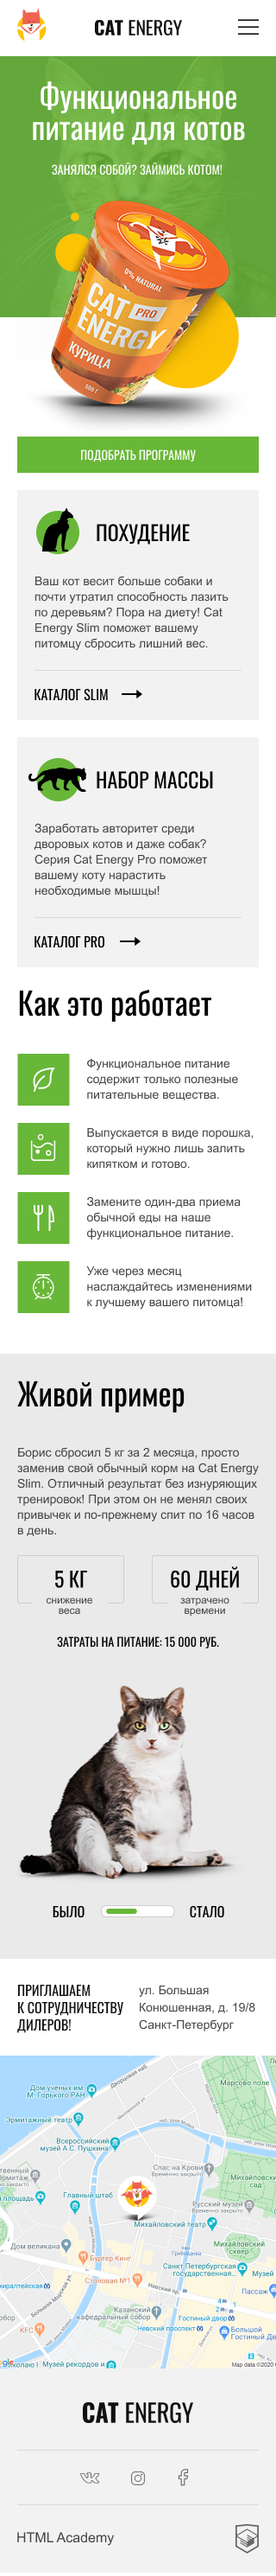
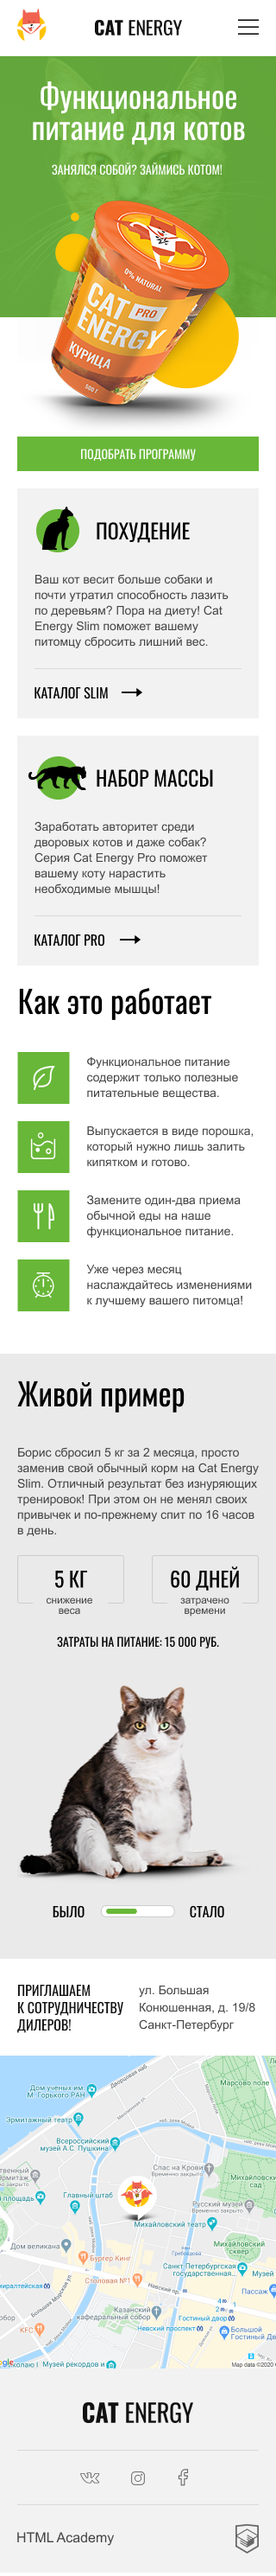
сохраняет изменения Index.html базовая типографика

Changed region(s): [[0.0938, 0.1872, 0.7812, 0.5305], [0.3125, 0.3745, 0.875, 0.5305]]

diff --git a/source/index.html b/source/index.html
@@ -137,13 +137,15 @@
   <footer class="page-footer">
     <section class="contacts">
       <h2 class="visually-hidden">Наш адрес</h2>
-      <div class="contacts_address-wrapper">
-        <p class="contacts__text">Приглашаем к сотрудничеству дилеров!</p>
-        <address class="contacts__shop-address">
-          ул. Большая<br>
-          Конюшенная, д. 19/8<br>
-          Санкт-Петербург
-        </address>
+      <div class="container">
+        <div class="contacts_address-wrapper ">
+          <p class="contacts__text">Приглашаем к сотрудничеству дилеров!</p>
+          <address class="contacts__shop-address">
+            ул. Большая<br>
+            Конюшенная, д. 19/8<br>
+            Санкт-Петербург
+          </address>
+        </div>
       </div>
       <img src="img/site/map-shop-location.jpg" width="320" height="362" alt="Наш магазин на карте мира.">
       <iframe
@@ -151,56 +153,57 @@
         width="243" height="232" allowfullscreen="" loading="lazy"></iframe>
     </section>
     <div class="page-footer__links">
-      <a class="page-footer__logo logo">
-        <img class="logo__shop-name logo__shop-name--large" src="img/logo-shop-name.svg" width="101" height="18"
-          alt="Текстовый логотип магазина Cat ENERGY.">
-      </a>
-      <div class="socials">
-        <ul class="socials__list">
-          <li class="socials__item">
-            <a class="socials__link" href="#" target="_blank">
-              <svg class="social-icon social-icon--vkontakte" width="23" height="19" viewBox="0 0 23 19" fill="none"
-                xmlns="http://www.w3.org/2000/svg">
-                <path
-                  d="M0.0700912 4.74127C0.0700912 4.00284 0.493211 3.60466 1.33945 3.54674L4.60039 3.56846C4.81925 3.56846 4.96515 3.67706 5.03811 3.89424C5.37368 4.98018 5.74938 5.9177 6.16521 6.70681C6.58103 7.49592 7.12453 8.40449 7.79568 9.4325C7.85404 9.56281 7.94888 9.62797 8.08019 9.62797C8.18233 9.62797 8.26257 9.57729 8.32093 9.47594L8.38659 9.23703L8.40848 5.47971C8.40848 5.21908 8.34647 5.04533 8.22245 4.95846C8.09843 4.87158 7.86863 4.80643 7.53305 4.76299C7.27043 4.71955 7.13912 4.56028 7.13912 4.28518C7.13912 4.22726 7.14641 4.18383 7.161 4.15487C7.4674 3.21373 8.34282 2.74315 9.78726 2.74315L11.0129 2.72144C11.5673 2.72144 12.0269 2.85899 12.3916 3.13409C12.7564 3.40919 12.9388 3.84357 12.9388 4.43721V9.36735C13.0409 9.43974 13.1357 9.47594 13.2233 9.47594C13.4421 9.47594 13.6318 9.34563 13.7923 9.085C15.3973 6.85522 16.2654 5.36387 16.3967 4.61096C16.3967 4.59648 16.4113 4.56028 16.4405 4.50237C16.5426 4.28518 16.7104 4.09695 16.9438 3.93768C17.1773 3.77841 17.3815 3.66982 17.5566 3.6119C17.615 3.58294 17.6806 3.56846 17.7536 3.56846H21.1459L21.3647 3.59018C21.6565 3.59018 21.8827 3.72773 22.0432 4.00284C22.1015 4.08971 22.1416 4.18383 22.1635 4.28518C22.1854 4.38653 22.2 4.48789 22.2073 4.58924C22.2146 4.69059 22.2182 4.74851 22.2182 4.76299V4.91502C22.1161 5.50866 21.8571 6.14213 21.4413 6.8154C21.0255 7.48868 20.4966 8.21626 19.8546 8.99813C19.2126 9.78 18.8114 10.294 18.6509 10.5402C18.5196 10.7139 18.4539 10.8732 18.4539 11.018C18.4539 11.1338 18.5123 11.2641 18.629 11.4089L21.8243 15.4051C21.9994 15.6368 22.0869 15.8902 22.0869 16.1653C22.0869 16.4983 21.9556 16.7734 21.693 16.9906C21.4304 17.2078 21.1167 17.3309 20.7519 17.3598L20.3799 17.3815H17.0533C17.0387 17.3815 17.0095 17.3852 16.9657 17.3924C16.9219 17.3996 16.8928 17.4033 16.8782 17.4033C16.5572 17.4033 16.2581 17.2657 15.9809 16.9906C15.8787 16.8748 15.193 16.0205 13.9236 14.4278C13.8507 14.3264 13.7485 14.2323 13.6172 14.1455C13.5589 14.3771 13.4823 14.7101 13.3874 15.1445C13.2926 15.5789 13.2233 15.8902 13.1795 16.0784L13.1139 16.4476C12.968 16.9544 12.6616 17.2585 12.1947 17.3598L11.8883 17.3815H9.74349C8.53249 17.3815 7.32514 16.8313 6.12144 15.7309C4.91773 14.6305 3.8344 13.2079 2.87144 11.4632C1.90848 9.71847 1.01117 7.68777 0.179519 5.37111C0.106567 5.18288 0.0700912 4.97294 0.0700912 4.74127ZM13.2233 10.3664C12.9169 10.3664 12.6397 10.2832 12.3916 10.1166C12.1436 9.95013 12.0196 9.72208 12.0196 9.4325V4.43721C12.0196 4.14763 11.9466 3.9413 11.8007 3.81823C11.6548 3.69516 11.3995 3.63362 11.0347 3.63362L9.78726 3.67706C9.15988 3.67706 8.68569 3.78565 8.36471 4.00284C9.00668 4.3069 9.32767 4.79919 9.32767 5.47971V9.30219C9.29849 9.66417 9.15258 9.96461 8.88996 10.2035C8.62733 10.4424 8.33552 10.5619 8.01454 10.5619C7.57683 10.5619 7.24125 10.3519 7.0078 9.93203C5.86975 8.2235 5.02351 6.60184 4.46908 5.06705L4.27211 4.50237L1.36134 4.48065C1.17166 4.48065 1.06588 4.49151 1.044 4.51323C1.02211 4.53494 1.01117 4.59648 1.01117 4.69783C1.01117 4.82815 1.02576 4.9657 1.05494 5.11049L1.51454 6.32673C2.74013 9.4687 4.07149 11.9446 5.50864 13.7545C6.94579 15.5644 8.35741 16.4693 9.74349 16.4693H11.932C12.0196 16.4693 12.0852 16.444 12.129 16.3933C12.1728 16.3427 12.2093 16.2449 12.2384 16.1001L12.2822 15.8829L12.698 13.9717C12.8148 13.7111 12.9169 13.5373 13.0044 13.4505C13.1649 13.2912 13.3546 13.2116 13.5735 13.2116C13.9236 13.2116 14.2811 13.4215 14.6459 13.8414L16.5061 16.187C16.6228 16.3752 16.7469 16.4693 16.8782 16.4693H20.4893C20.927 16.4693 21.1459 16.3608 21.1459 16.1436C21.1459 16.0712 21.124 15.9988 21.0802 15.9264L17.9068 11.9953C17.6588 11.6912 17.5347 11.3655 17.5347 11.018C17.5347 10.6705 17.6515 10.3374 17.8849 10.0189C18.0746 9.72932 18.443 9.24789 18.9901 8.57462C19.5373 7.90134 20.0151 7.2715 20.4236 6.68509C20.8322 6.09869 21.1021 5.56658 21.2334 5.08877L21.299 4.80643C21.2845 4.77747 21.2772 4.73041 21.2772 4.66526C21.2772 4.6001 21.2699 4.5458 21.2553 4.50237H17.8193C17.6004 4.58924 17.4253 4.71955 17.294 4.8933L17.1627 5.30596C16.7979 6.30502 15.8423 7.84704 14.2957 9.93203C13.9893 10.2216 13.6318 10.3664 13.2233 10.3664Z"
-                  fill="#666666" />
-              </svg>
-              <span class="visually-hidden">Мы в Вконтакте.</span>
-            </a>
-          </li>
-          <li class="socials__item">
-            <a class="socials__link" href="#" target="_blank">
-              <svg class="social-icon social-icon--instagram" width="16" height="16" viewBox="0 0 16 16" fill="none"
-                xmlns="http://www.w3.org/2000/svg">
-                <path
-                  d="M7.98438 0.0625C9.31771 0.0625 10.4062 0.078125 11.25 0.109375C11.9688 0.140625 12.6094 0.265625 13.1719 0.484375C13.7135 0.692708 14.1823 0.994792 14.5781 1.39062C14.974 1.78646 15.276 2.25521 15.4844 2.79687C15.7031 3.35937 15.8281 4 15.8594 4.71875C15.8906 5.5625 15.9062 6.65104 15.9062 7.98437C15.9062 9.31771 15.8906 10.4062 15.8594 11.25C15.8281 11.9687 15.7031 12.6094 15.4844 13.1719C15.276 13.7135 14.974 14.1823 14.5781 14.5781C14.1823 14.974 13.7135 15.276 13.1719 15.4844C12.6094 15.7031 11.9688 15.8281 11.25 15.8594C10.4062 15.8906 9.31771 15.9062 7.98438 15.9062C6.65104 15.9062 5.5625 15.8906 4.71875 15.8594C4 15.8281 3.35938 15.7031 2.79688 15.4844C2.25521 15.276 1.78646 14.974 1.39062 14.5781C0.994792 14.1823 0.692708 13.7135 0.484375 13.1719C0.265625 12.6094 0.140625 11.9687 0.109375 11.25C0.078125 10.4062 0.0625 9.31771 0.0625 7.98437C0.0625 6.65104 0.078125 5.5625 0.109375 4.71875C0.140625 4 0.265625 3.35937 0.484375 2.79687C0.692708 2.25521 0.994792 1.78646 1.39062 1.39062C1.78646 0.994792 2.25521 0.692708 2.79688 0.484375C3.35938 0.265625 4 0.140625 4.71875 0.109375C5.5625 0.078125 6.65104 0.0625 7.98438 0.0625ZM7.98438 1.09375C6.59896 1.09375 5.46875 1.10937 4.59375 1.14062C4.03125 1.16146 3.51042 1.26042 3.03125 1.4375C2.28125 1.75 1.75 2.28125 1.4375 3.03125C1.26042 3.51042 1.16146 4.03125 1.14062 4.59375C1.10938 5.46875 1.09375 6.59896 1.09375 7.98437C1.09375 9.36979 1.10938 10.5 1.14062 11.375C1.16146 11.9375 1.26042 12.4583 1.4375 12.9375C1.75 13.6875 2.28125 14.2187 3.03125 14.5312C3.51042 14.7083 4.03125 14.8073 4.59375 14.8281C5.46875 14.8594 6.59896 14.875 7.98438 14.875C9.36979 14.875 10.5 14.8594 11.375 14.8281C11.9375 14.8073 12.4583 14.7083 12.9375 14.5312C13.6875 14.2187 14.2188 13.6875 14.5312 12.9375C14.7083 12.4583 14.8073 11.9375 14.8281 11.375C14.8594 10.5 14.875 9.36979 14.875 7.98437C14.875 6.59896 14.8594 5.46875 14.8281 4.59375C14.8073 4.03125 14.7083 3.51042 14.5312 3.03125C14.2188 2.28125 13.6875 1.75 12.9375 1.4375C12.4583 1.26042 11.9375 1.16146 11.375 1.14062C10.5 1.10937 9.36979 1.09375 7.98438 1.09375ZM7.98438 11.1562C8.85938 11.1562 9.60677 10.8464 10.2266 10.2266C10.8464 9.60677 11.1562 8.85937 11.1562 7.98437C11.1562 7.10937 10.8464 6.36198 10.2266 5.74219C9.60677 5.1224 8.85938 4.8125 7.98438 4.8125C7.10938 4.8125 6.36198 5.1224 5.74219 5.74219C5.1224 6.36198 4.8125 7.10937 4.8125 7.98437C4.8125 8.85937 5.1224 9.60677 5.74219 10.2266C6.36198 10.8464 7.10938 11.1562 7.98438 11.1562ZM7.98438 3.92187C9.10938 3.92187 10.0677 4.31771 10.8594 5.10937C11.651 5.90104 12.0469 6.85937 12.0469 7.98437C12.0469 9.10937 11.651 10.0677 10.8594 10.8594C10.0677 11.651 9.10938 12.0469 7.98438 12.0469C6.85938 12.0469 5.90104 11.651 5.10938 10.8594C4.31771 10.0677 3.92188 9.10937 3.92188 7.98437C3.92188 6.85937 4.31771 5.90104 5.10938 5.10937C5.90104 4.31771 6.85938 3.92187 7.98438 3.92187ZM13.1719 3.76562C13.1719 4.02604 13.0781 4.2474 12.8906 4.42969C12.7031 4.61198 12.474 4.70312 12.2031 4.70312C11.9427 4.70312 11.7214 4.61198 11.5391 4.42969C11.3568 4.2474 11.2656 4.02604 11.2656 3.76562C11.2656 3.49479 11.3568 3.26562 11.5391 3.07812C11.7214 2.89062 11.9427 2.79687 12.2031 2.79687C12.4635 2.79687 12.6901 2.89323 12.8828 3.08594C13.0755 3.27865 13.1719 3.50521 13.1719 3.76562Z"
-                  fill="#666666" />
-              </svg>
-
-              <span class="visually-hidden">Мы в Инстаграмм.</span>
-            </a>
-          </li>
-          <li class="socials__item">
-            <a class="socials__link" href="#" target="_blank">
-              <svg class="social-icon social-icon--facebook" width="22" height="22" viewBox="0 0 22 22" fill="none"
-                xmlns="http://www.w3.org/2000/svg">
-                <path
-                  d="M16.5 1.83325H13.75C12.5344 1.83325 11.3686 2.30674 10.5091 3.14957C9.64956 3.99239 9.16667 5.1355 9.16667 6.32743V9.02394H6.41667V12.6193H9.16667V19.81H12.8333V12.6193H15.5833L16.5 9.02394H12.8333V6.32743C12.8333 6.08905 12.9299 5.86042 13.1018 5.69186C13.2737 5.52329 13.5069 5.4286 13.75 5.4286H16.5V1.83325Z"
-                  stroke="#666666" stroke-width="1.1" stroke-linecap="round" stroke-linejoin="round" />
-              </svg>
-              <span class="visually-hidden">Мы в Фейсбук.</span>
-            </a>
-          </li>
-        </ul>
+      <div class="container">
+        <a class="page-footer__logo logo">
+          <img class="logo__shop-name logo__shop-name--large" src="img/logo-shop-name.svg" width="128" height="24"
+            alt="Текстовый логотип магазина Cat ENERGY.">
+        </a>
+        <div class="socials">
+          <ul class="socials__list">
+            <li class="socials__item">
+              <a class="socials__link" href="#" target="_blank">
+                <svg class="social-icon social-icon--vkontakte" width="23" height="19" viewBox="0 0 23 19" fill="none"
+                  xmlns="http://www.w3.org/2000/svg">
+                  <path
+                    d="M0.0700912 4.74127C0.0700912 4.00284 0.493211 3.60466 1.33945 3.54674L4.60039 3.56846C4.81925 3.56846 4.96515 3.67706 5.03811 3.89424C5.37368 4.98018 5.74938 5.9177 6.16521 6.70681C6.58103 7.49592 7.12453 8.40449 7.79568 9.4325C7.85404 9.56281 7.94888 9.62797 8.08019 9.62797C8.18233 9.62797 8.26257 9.57729 8.32093 9.47594L8.38659 9.23703L8.40848 5.47971C8.40848 5.21908 8.34647 5.04533 8.22245 4.95846C8.09843 4.87158 7.86863 4.80643 7.53305 4.76299C7.27043 4.71955 7.13912 4.56028 7.13912 4.28518C7.13912 4.22726 7.14641 4.18383 7.161 4.15487C7.4674 3.21373 8.34282 2.74315 9.78726 2.74315L11.0129 2.72144C11.5673 2.72144 12.0269 2.85899 12.3916 3.13409C12.7564 3.40919 12.9388 3.84357 12.9388 4.43721V9.36735C13.0409 9.43974 13.1357 9.47594 13.2233 9.47594C13.4421 9.47594 13.6318 9.34563 13.7923 9.085C15.3973 6.85522 16.2654 5.36387 16.3967 4.61096C16.3967 4.59648 16.4113 4.56028 16.4405 4.50237C16.5426 4.28518 16.7104 4.09695 16.9438 3.93768C17.1773 3.77841 17.3815 3.66982 17.5566 3.6119C17.615 3.58294 17.6806 3.56846 17.7536 3.56846H21.1459L21.3647 3.59018C21.6565 3.59018 21.8827 3.72773 22.0432 4.00284C22.1015 4.08971 22.1416 4.18383 22.1635 4.28518C22.1854 4.38653 22.2 4.48789 22.2073 4.58924C22.2146 4.69059 22.2182 4.74851 22.2182 4.76299V4.91502C22.1161 5.50866 21.8571 6.14213 21.4413 6.8154C21.0255 7.48868 20.4966 8.21626 19.8546 8.99813C19.2126 9.78 18.8114 10.294 18.6509 10.5402C18.5196 10.7139 18.4539 10.8732 18.4539 11.018C18.4539 11.1338 18.5123 11.2641 18.629 11.4089L21.8243 15.4051C21.9994 15.6368 22.0869 15.8902 22.0869 16.1653C22.0869 16.4983 21.9556 16.7734 21.693 16.9906C21.4304 17.2078 21.1167 17.3309 20.7519 17.3598L20.3799 17.3815H17.0533C17.0387 17.3815 17.0095 17.3852 16.9657 17.3924C16.9219 17.3996 16.8928 17.4033 16.8782 17.4033C16.5572 17.4033 16.2581 17.2657 15.9809 16.9906C15.8787 16.8748 15.193 16.0205 13.9236 14.4278C13.8507 14.3264 13.7485 14.2323 13.6172 14.1455C13.5589 14.3771 13.4823 14.7101 13.3874 15.1445C13.2926 15.5789 13.2233 15.8902 13.1795 16.0784L13.1139 16.4476C12.968 16.9544 12.6616 17.2585 12.1947 17.3598L11.8883 17.3815H9.74349C8.53249 17.3815 7.32514 16.8313 6.12144 15.7309C4.91773 14.6305 3.8344 13.2079 2.87144 11.4632C1.90848 9.71847 1.01117 7.68777 0.179519 5.37111C0.106567 5.18288 0.0700912 4.97294 0.0700912 4.74127ZM13.2233 10.3664C12.9169 10.3664 12.6397 10.2832 12.3916 10.1166C12.1436 9.95013 12.0196 9.72208 12.0196 9.4325V4.43721C12.0196 4.14763 11.9466 3.9413 11.8007 3.81823C11.6548 3.69516 11.3995 3.63362 11.0347 3.63362L9.78726 3.67706C9.15988 3.67706 8.68569 3.78565 8.36471 4.00284C9.00668 4.3069 9.32767 4.79919 9.32767 5.47971V9.30219C9.29849 9.66417 9.15258 9.96461 8.88996 10.2035C8.62733 10.4424 8.33552 10.5619 8.01454 10.5619C7.57683 10.5619 7.24125 10.3519 7.0078 9.93203C5.86975 8.2235 5.02351 6.60184 4.46908 5.06705L4.27211 4.50237L1.36134 4.48065C1.17166 4.48065 1.06588 4.49151 1.044 4.51323C1.02211 4.53494 1.01117 4.59648 1.01117 4.69783C1.01117 4.82815 1.02576 4.9657 1.05494 5.11049L1.51454 6.32673C2.74013 9.4687 4.07149 11.9446 5.50864 13.7545C6.94579 15.5644 8.35741 16.4693 9.74349 16.4693H11.932C12.0196 16.4693 12.0852 16.444 12.129 16.3933C12.1728 16.3427 12.2093 16.2449 12.2384 16.1001L12.2822 15.8829L12.698 13.9717C12.8148 13.7111 12.9169 13.5373 13.0044 13.4505C13.1649 13.2912 13.3546 13.2116 13.5735 13.2116C13.9236 13.2116 14.2811 13.4215 14.6459 13.8414L16.5061 16.187C16.6228 16.3752 16.7469 16.4693 16.8782 16.4693H20.4893C20.927 16.4693 21.1459 16.3608 21.1459 16.1436C21.1459 16.0712 21.124 15.9988 21.0802 15.9264L17.9068 11.9953C17.6588 11.6912 17.5347 11.3655 17.5347 11.018C17.5347 10.6705 17.6515 10.3374 17.8849 10.0189C18.0746 9.72932 18.443 9.24789 18.9901 8.57462C19.5373 7.90134 20.0151 7.2715 20.4236 6.68509C20.8322 6.09869 21.1021 5.56658 21.2334 5.08877L21.299 4.80643C21.2845 4.77747 21.2772 4.73041 21.2772 4.66526C21.2772 4.6001 21.2699 4.5458 21.2553 4.50237H17.8193C17.6004 4.58924 17.4253 4.71955 17.294 4.8933L17.1627 5.30596C16.7979 6.30502 15.8423 7.84704 14.2957 9.93203C13.9893 10.2216 13.6318 10.3664 13.2233 10.3664Z"
+                    fill="#666666" />
+                </svg>
+                <span class="visually-hidden">Мы в Вконтакте.</span>
+              </a>
+            </li>
+            <li class="socials__item">
+              <a class="socials__link" href="#" target="_blank">
+                <svg class="social-icon social-icon--instagram" width="16" height="16" viewBox="0 0 16 16" fill="none"
+                  xmlns="http://www.w3.org/2000/svg">
+                  <path
+                    d="M7.98438 0.0625C9.31771 0.0625 10.4062 0.078125 11.25 0.109375C11.9688 0.140625 12.6094 0.265625 13.1719 0.484375C13.7135 0.692708 14.1823 0.994792 14.5781 1.39062C14.974 1.78646 15.276 2.25521 15.4844 2.79687C15.7031 3.35937 15.8281 4 15.8594 4.71875C15.8906 5.5625 15.9062 6.65104 15.9062 7.98437C15.9062 9.31771 15.8906 10.4062 15.8594 11.25C15.8281 11.9687 15.7031 12.6094 15.4844 13.1719C15.276 13.7135 14.974 14.1823 14.5781 14.5781C14.1823 14.974 13.7135 15.276 13.1719 15.4844C12.6094 15.7031 11.9688 15.8281 11.25 15.8594C10.4062 15.8906 9.31771 15.9062 7.98438 15.9062C6.65104 15.9062 5.5625 15.8906 4.71875 15.8594C4 15.8281 3.35938 15.7031 2.79688 15.4844C2.25521 15.276 1.78646 14.974 1.39062 14.5781C0.994792 14.1823 0.692708 13.7135 0.484375 13.1719C0.265625 12.6094 0.140625 11.9687 0.109375 11.25C0.078125 10.4062 0.0625 9.31771 0.0625 7.98437C0.0625 6.65104 0.078125 5.5625 0.109375 4.71875C0.140625 4 0.265625 3.35937 0.484375 2.79687C0.692708 2.25521 0.994792 1.78646 1.39062 1.39062C1.78646 0.994792 2.25521 0.692708 2.79688 0.484375C3.35938 0.265625 4 0.140625 4.71875 0.109375C5.5625 0.078125 6.65104 0.0625 7.98438 0.0625ZM7.98438 1.09375C6.59896 1.09375 5.46875 1.10937 4.59375 1.14062C4.03125 1.16146 3.51042 1.26042 3.03125 1.4375C2.28125 1.75 1.75 2.28125 1.4375 3.03125C1.26042 3.51042 1.16146 4.03125 1.14062 4.59375C1.10938 5.46875 1.09375 6.59896 1.09375 7.98437C1.09375 9.36979 1.10938 10.5 1.14062 11.375C1.16146 11.9375 1.26042 12.4583 1.4375 12.9375C1.75 13.6875 2.28125 14.2187 3.03125 14.5312C3.51042 14.7083 4.03125 14.8073 4.59375 14.8281C5.46875 14.8594 6.59896 14.875 7.98438 14.875C9.36979 14.875 10.5 14.8594 11.375 14.8281C11.9375 14.8073 12.4583 14.7083 12.9375 14.5312C13.6875 14.2187 14.2188 13.6875 14.5312 12.9375C14.7083 12.4583 14.8073 11.9375 14.8281 11.375C14.8594 10.5 14.875 9.36979 14.875 7.98437C14.875 6.59896 14.8594 5.46875 14.8281 4.59375C14.8073 4.03125 14.7083 3.51042 14.5312 3.03125C14.2188 2.28125 13.6875 1.75 12.9375 1.4375C12.4583 1.26042 11.9375 1.16146 11.375 1.14062C10.5 1.10937 9.36979 1.09375 7.98438 1.09375ZM7.98438 11.1562C8.85938 11.1562 9.60677 10.8464 10.2266 10.2266C10.8464 9.60677 11.1562 8.85937 11.1562 7.98437C11.1562 7.10937 10.8464 6.36198 10.2266 5.74219C9.60677 5.1224 8.85938 4.8125 7.98438 4.8125C7.10938 4.8125 6.36198 5.1224 5.74219 5.74219C5.1224 6.36198 4.8125 7.10937 4.8125 7.98437C4.8125 8.85937 5.1224 9.60677 5.74219 10.2266C6.36198 10.8464 7.10938 11.1562 7.98438 11.1562ZM7.98438 3.92187C9.10938 3.92187 10.0677 4.31771 10.8594 5.10937C11.651 5.90104 12.0469 6.85937 12.0469 7.98437C12.0469 9.10937 11.651 10.0677 10.8594 10.8594C10.0677 11.651 9.10938 12.0469 7.98438 12.0469C6.85938 12.0469 5.90104 11.651 5.10938 10.8594C4.31771 10.0677 3.92188 9.10937 3.92188 7.98437C3.92188 6.85937 4.31771 5.90104 5.10938 5.10937C5.90104 4.31771 6.85938 3.92187 7.98438 3.92187ZM13.1719 3.76562C13.1719 4.02604 13.0781 4.2474 12.8906 4.42969C12.7031 4.61198 12.474 4.70312 12.2031 4.70312C11.9427 4.70312 11.7214 4.61198 11.5391 4.42969C11.3568 4.2474 11.2656 4.02604 11.2656 3.76562C11.2656 3.49479 11.3568 3.26562 11.5391 3.07812C11.7214 2.89062 11.9427 2.79687 12.2031 2.79687C12.4635 2.79687 12.6901 2.89323 12.8828 3.08594C13.0755 3.27865 13.1719 3.50521 13.1719 3.76562Z"
+                    fill="#666666" />
+                </svg>
+                <span class="visually-hidden">Мы в Инстаграмм.</span>
+              </a>
+            </li>
+            <li class="socials__item">
+              <a class="socials__link" href="#" target="_blank">
+                <svg class="social-icon social-icon--facebook" width="22" height="22" viewBox="0 0 22 22" fill="none"
+                  xmlns="http://www.w3.org/2000/svg">
+                  <path
+                    d="M16.5 1.83325H13.75C12.5344 1.83325 11.3686 2.30674 10.5091 3.14957C9.64956 3.99239 9.16667 5.1355 9.16667 6.32743V9.02394H6.41667V12.6193H9.16667V19.81H12.8333V12.6193H15.5833L16.5 9.02394H12.8333V6.32743C12.8333 6.08905 12.9299 5.86042 13.1018 5.69186C13.2737 5.52329 13.5069 5.4286 13.75 5.4286H16.5V1.83325Z"
+                    stroke="#666666" stroke-width="1.1" stroke-linecap="round" stroke-linejoin="round" />
+                </svg>
+                <span class="visually-hidden">Мы в Фейсбук.</span>
+              </a>
+            </li>
+          </ul>
+        </div>
+        <a class="page-footer__copyright copyright" href="https://htmlacademy.ru/intensive/adaptive" target="_blank">
+          <span class="copyright__name">HTML Academy</span>
+          <svg class="copyright__logo" width="27" height="34" xmlns="http://www.w3.org/2000/svg" viewBox="0 0 60 60"
+            role="img" aria-label="HTML ACADEMY">
+            <path fill="currentColor"
+              d="M30.2 5h-.2l-19.7 2.1v36.2l19.7 11.7 19.7-11.7v-36.2l-19.5-2.1zm17 36.8l-17.2 10.2-17.2-10.2v-14.8l17.1 10.2v1.8l-11.7-7v1.8l11.8 7.1v1.9l-11.8-7v1.8l11.8 7 11.9-7.1v-7.6l5.3-3.2v15.1zm-.1-17l-4.7 2.8-2.2 1.3-10.3-6.1v1.8l8.8 5.3h-.1l-.2.1-1.3.7-7.3-4.3v1.8l5.8 3.4-1.4.9-4.3-2.6v1.8l2.9 1.7-2.9 1.7-17-10.1 17-10.2 17.2 10zm.1-1.8l-17.3-10.2-17.1 10.2v-13.6l17.2-1.8 17.2 1.8v13.6z" />
+          </svg>
+        </a>
       </div>
-      <a class="page-footer__copyright copyright" href="https://htmlacademy.ru/intensive/adaptive" target="_blank">
-        <span class="copyright__name">HTML Academy</span>
-        <svg class="copyright__logo" width="27" height="34" xmlns="http://www.w3.org/2000/svg" viewBox="0 0 60 60"
-          role="img" aria-label="HTML ACADEMY">
-          <path fill="currentColor"
-            d="M30.2 5h-.2l-19.7 2.1v36.2l19.7 11.7 19.7-11.7v-36.2l-19.5-2.1zm17 36.8l-17.2 10.2-17.2-10.2v-14.8l17.1 10.2v1.8l-11.7-7v1.8l11.8 7.1v1.9l-11.8-7v1.8l11.8 7 11.9-7.1v-7.6l5.3-3.2v15.1zm-.1-17l-4.7 2.8-2.2 1.3-10.3-6.1v1.8l8.8 5.3h-.1l-.2.1-1.3.7-7.3-4.3v1.8l5.8 3.4-1.4.9-4.3-2.6v1.8l2.9 1.7-2.9 1.7-17-10.1 17-10.2 17.2 10zm.1-1.8l-17.3-10.2-17.1 10.2v-13.6l17.2-1.8 17.2 1.8v13.6z" />
-        </svg>
-      </a>
     </div>
   </footer>
 

diff --git a/source/sass/style.scss b/source/sass/style.scss
@@ -167,7 +167,7 @@
 
 .promo__item__text:last-of-type {
   margin-bottom: 15px;
-  padding-bottom: 23px;
+  padding-bottom: 22px;
   border-bottom: 1px solid #d9d9d9;
 }
 .promo__item__link {
@@ -235,11 +235,13 @@
 }
 .example {
   padding: 25px 0 40px;
+  height:700px;
+  overflow: hidden;
   background-color: #eaeaea;
 }
 .example__title {
   margin-top: 0;
-  margin-bottom: 41px;
+  margin-bottom: 40px;
   font-family: $font-family-secondary;
   font-style: normal;
   font-weight: 400;
@@ -274,6 +276,7 @@
   display: flex;
   flex-direction: column-reverse;
   padding: 14px;
+  padding-bottom: 8px;
   position: relative;
   margin-bottom: 14px;
 }
@@ -361,10 +364,13 @@ color: #000000;
 
 }
 .contacts {
-  padding: 26px 0;
+
+  height: 474px;
+  overflow: hidden;
 
 }
 .contacts_address-wrapper {
+  padding: 26px 0;
   display: grid;
   grid-template-columns: 1fr 1fr;
 }
@@ -376,7 +382,7 @@ font-size: 16px;
 line-height: 20px;
 text-align: left;
 text-transform: uppercase;
-margin-top: 0;
+margin: 0;
 
 color: #111111;
 }
@@ -388,7 +394,7 @@ color: #111111;
   background-color: $grey-100;
 }
 .page-footer__logo {
-  padding: 39px 0 32px;
+  padding: 39px 0 31px;
   display: block;
   display: flex;
   align-items: center;
@@ -415,7 +421,9 @@ color: #111111;
 }
 .socials__link {
   display: inline-flex;
-  padding: 18px;
+  align-items: center;
+  justify-content: center;
+  padding: 15px 18px;
 }
 .social-icon {
 }
